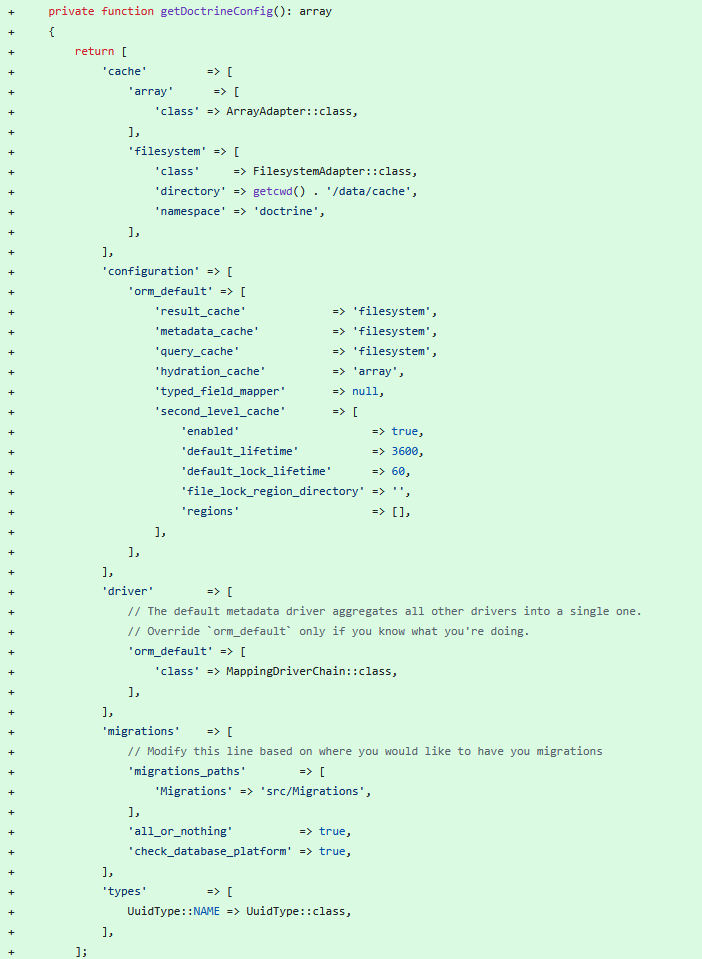
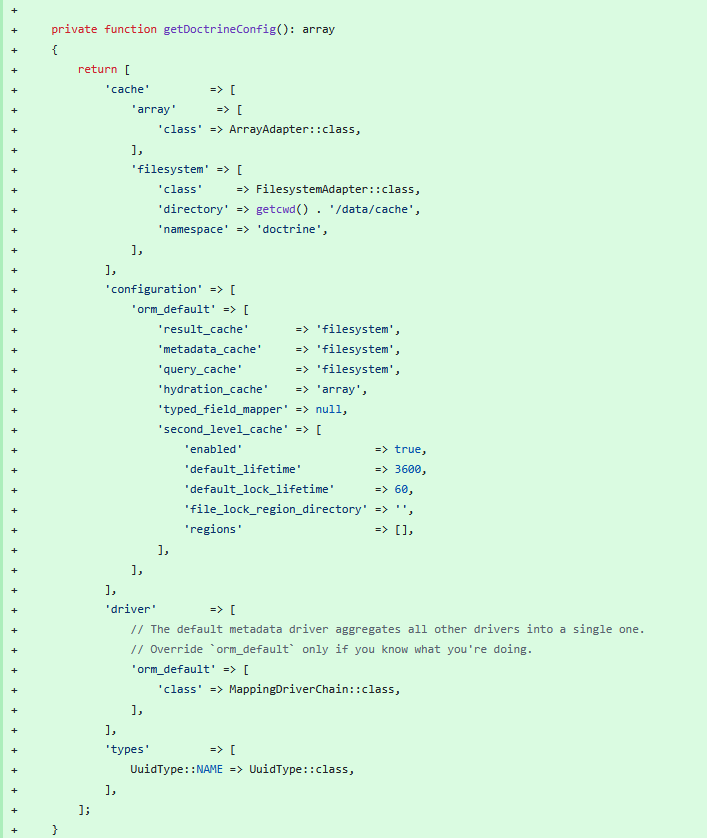
remove migrations related content

diff --git a/docs/book/v1/chapter-1.md b/docs/book/v1/chapter-1.md
@@ -77,7 +77,7 @@ return [
 ];
 ```
 
-### Declare the Doctrine Drivers and Migrations Location
+### Declare the Doctrine Drivers
 
 With the very nice utility of the package `laminas/laminas-config-aggregator` we can declare our doctrine settings in the `src/App/src/ConfigProvider.php` file.
 This package takes all the provided configs from the `config/config.php` file and merges them into one.
@@ -132,12 +132,12 @@ private function getDoctrineConfig(): array
         ],
         'configuration' => [
             'orm_default' => [
-                'result_cache'             => 'filesystem',
-                'metadata_cache'           => 'filesystem',
-                'query_cache'              => 'filesystem',
-                'hydration_cache'          => 'array',
-                'typed_field_mapper'       => null,
-                'second_level_cache'       => [
+                'result_cache'       => 'filesystem',
+                'metadata_cache'     => 'filesystem',
+                'query_cache'        => 'filesystem',
+                'hydration_cache'    => 'array',
+                'typed_field_mapper' => null,
+                'second_level_cache' => [
                     'enabled'                    => true,
                     'default_lifetime'           => 3600,
                     'default_lock_lifetime'      => 60,
@@ -153,45 +153,11 @@ private function getDoctrineConfig(): array
                 'class' => MappingDriverChain::class,
             ],
         ],
-        'migrations'    => [
-            // Modify this line based on where you would like to have you migrations
-            'migrations_paths'        => [
-                'Migrations' => 'src/Migrations',
-            ],
-            'all_or_nothing'          => true,
-            'check_database_platform' => true,
-        ],
         'types'         => [
             UuidType::NAME => UuidType::class,
         ],
     ];
 }
-```
-
-We also require a new file `config/cli-config.php`.
-It initializes and returns a `DependencyFactory` that Doctrine Migrations uses to run migrations.
-
-![cli-config](images/cli-config.png)
-
-```php
-<?php
-
-declare(strict_types=1);
-
-use Doctrine\Migrations\Configuration\EntityManager\ExistingEntityManager;
-use Doctrine\Migrations\Configuration\Migration\ConfigurationArray;
-use Doctrine\Migrations\DependencyFactory;
-use Doctrine\ORM\EntityManager;
-
-$container = require 'config/container.php';
-
-$entityManager = $container->get(EntityManager::class);
-$entityManager->getEventManager();
-
-return DependencyFactory::fromEntityManager(
-    new ConfigurationArray($container->get('config')['doctrine']['migrations']),
-    new ExistingEntityManager($entityManager)
-);
 ```
 
 ## Running doctrine
@@ -219,22 +185,6 @@ $entityManager = $container->get(EntityManager::class);
 $entityManager->getEventManager();
 
 ConsoleRunner::run(new SingleManagerProvider($entityManager));
-```
-
-(Optional) To keep things tidy, we recommend making an executable for the migrations of Doctrine as well.
-For this, we create `doctrine-migrations` file inside the application's `bin` directory:
-
-![doctrine-migrations](images/doctrine-migrations.png)
-
-```php
-#!/usr/bin/env php
-<?php
-
-declare(strict_types=1);
-
-namespace Doctrine\Migrations;
-
-require __DIR__ . '/../vendor/doctrine/migrations/bin/doctrine-migrations.php';
 ```
 
 Now by running the command bellow we should see the Doctrine CLI version alongside its available commands:

diff --git a/docs/book/v1/introduction.md b/docs/book/v1/introduction.md
@@ -3,9 +3,10 @@
 For the upcoming tutorial steps we assume that you already have installed the following:
 
 - A UNIX-based development environment.
-If not, we recommend [AlmaLinux](https://almalinux.org/) in a WSL2 container
+If not, we recommend [AlmaLinux](https://almalinux.org/) in a WSL2 container.
+You can check our [guide](https://docs.dotkernel.org/development/v2/setup/installation/) for setting up you container.
 - A recent IDE, for example [PhpStorm](https://www.jetbrains.com/phpstorm/) or [VSCode](https://code.visualstudio.com/)
 - A fresh installation of [Dotkernel Light](https://github.com/dotkernel/light)
 - Default UTF-8 encoding for files and LF type line separator
 
-For any further tips related to the development environment we suggest that you check out our [development documentation](https://docs.dotkernel.org/development/v2/setup/installation/).
+Feel free to check out our [development documentation](https://docs.dotkernel.org/development/v2/setup/installation/) in case of any further questions.
